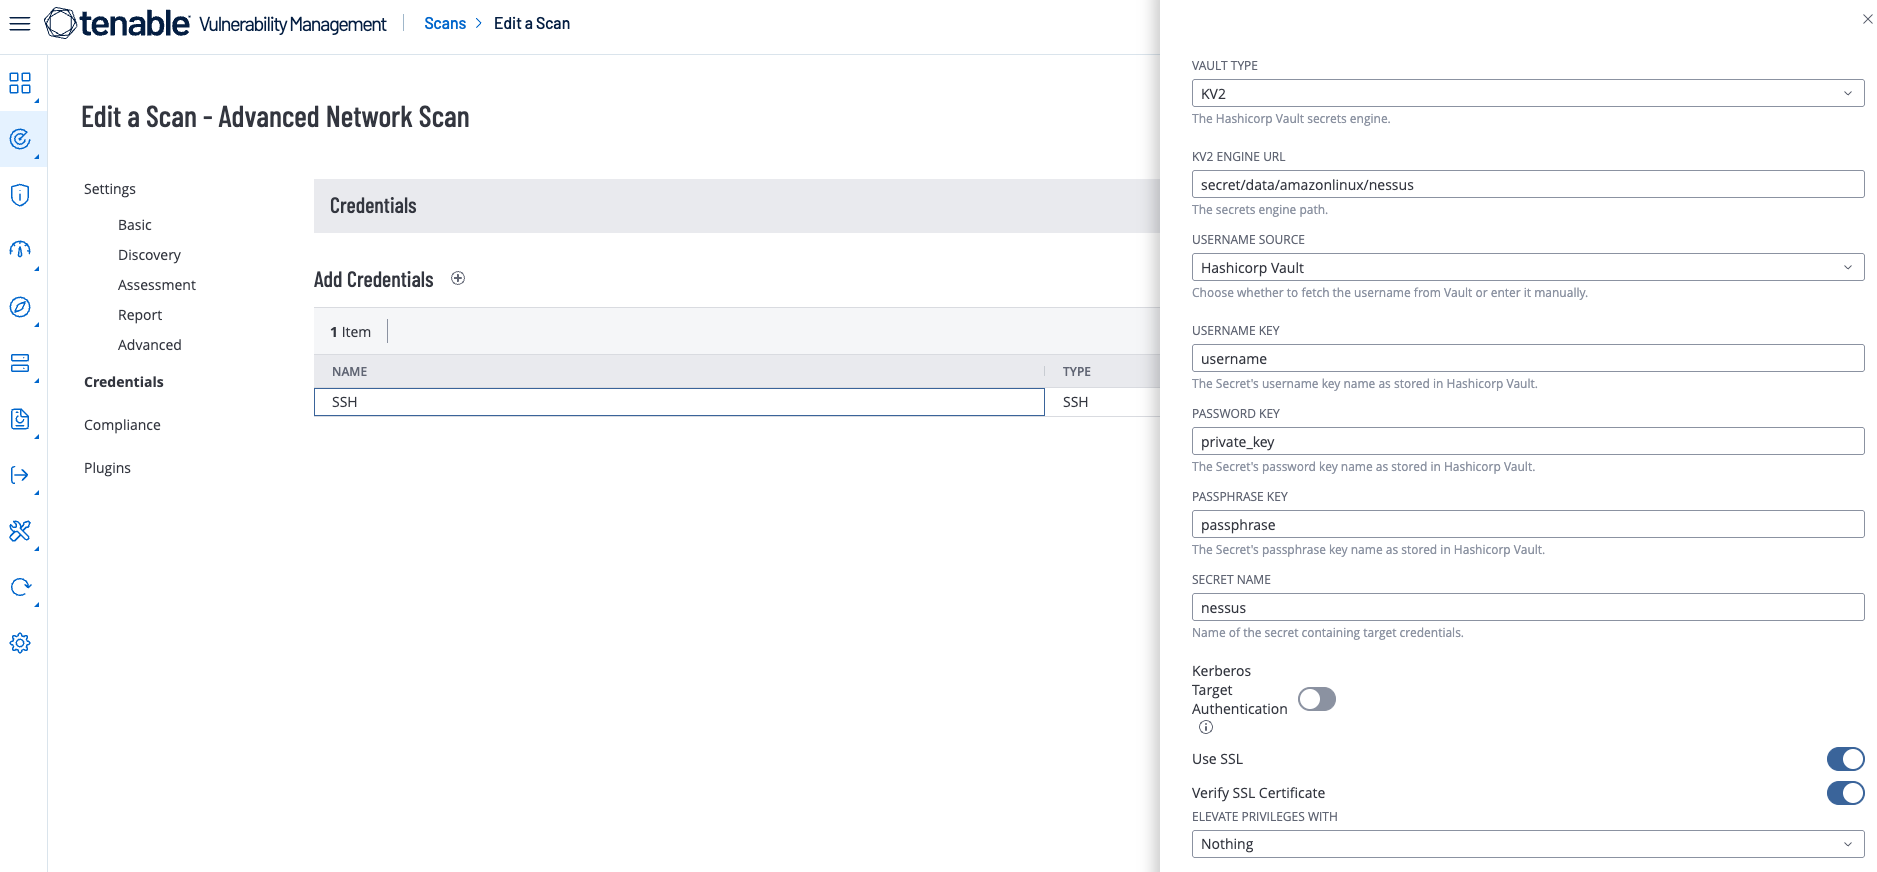
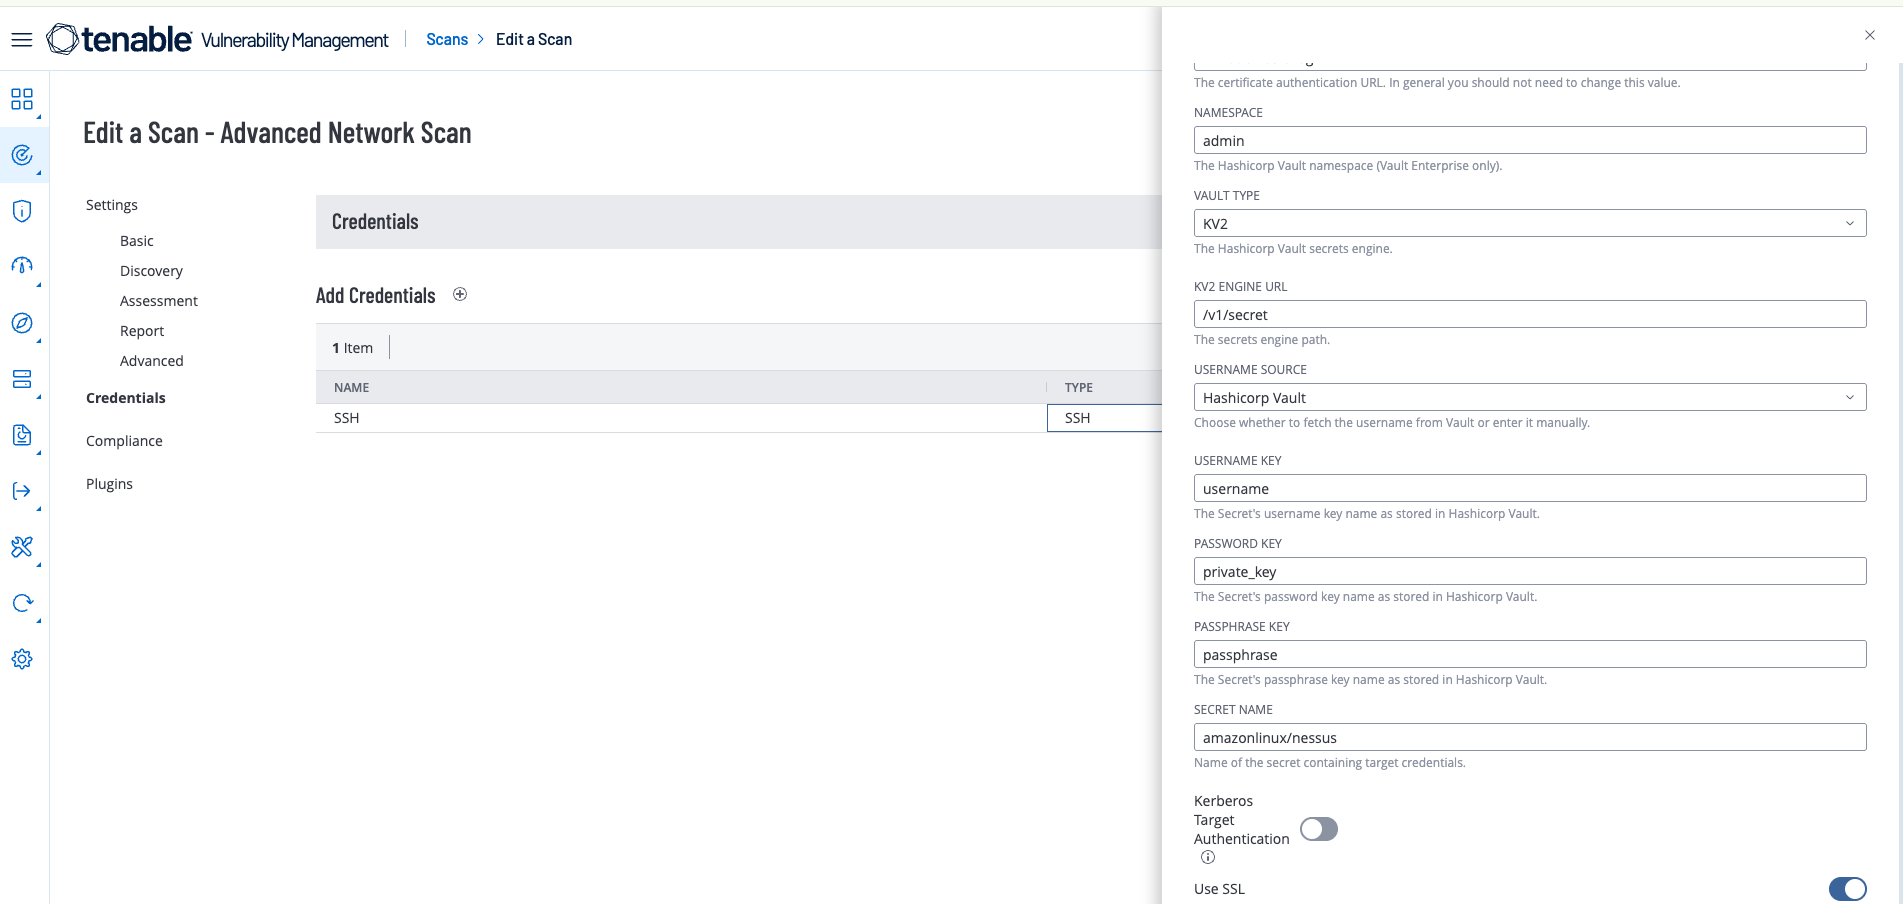
Document Tenable HCP Vault credential field mapping since the KV v2 data/ segment is inserted automatically, causing confusion about what goes in the engine URL vs secret name

diff --git a/README.md b/README.md
@@ -111,6 +111,21 @@ aws route53 change-resource-record-sets \
 7. You may want to enrol a nessus scanner for an end to end test
 ![Nessus scanner connected to HCP Vault over AWS PrivateLink](img/nessus_scanner.png)
 
+When configuring the HashiCorp Vault managed credential in Tenable, fill in the
+fields as below. Tenable inserts the KV v2 `data/` segment automatically (right
+after the engine URL), so the engine URL is the mount only and the full path
+below the mount goes in **Secret Name**. This resolves to a read of
+`/v1/secret/data/amazonlinux/nessus` (with the `admin` namespace):
+
+| Field | Value |
+| --- | --- |
+| KV2 Engine URL | `/v1/secret` |
+| Secret Name | `amazonlinux/nessus` |
+| Username Key | `username` |
+| Password Key | `private_key` |
+| Passphrase Key | _(blank)_ |
+| Namespace | `admin` |
+
 8. [Configure HashiCorp Vault](VAULT-CONFIG.md)
 
 ## Troubleshooting